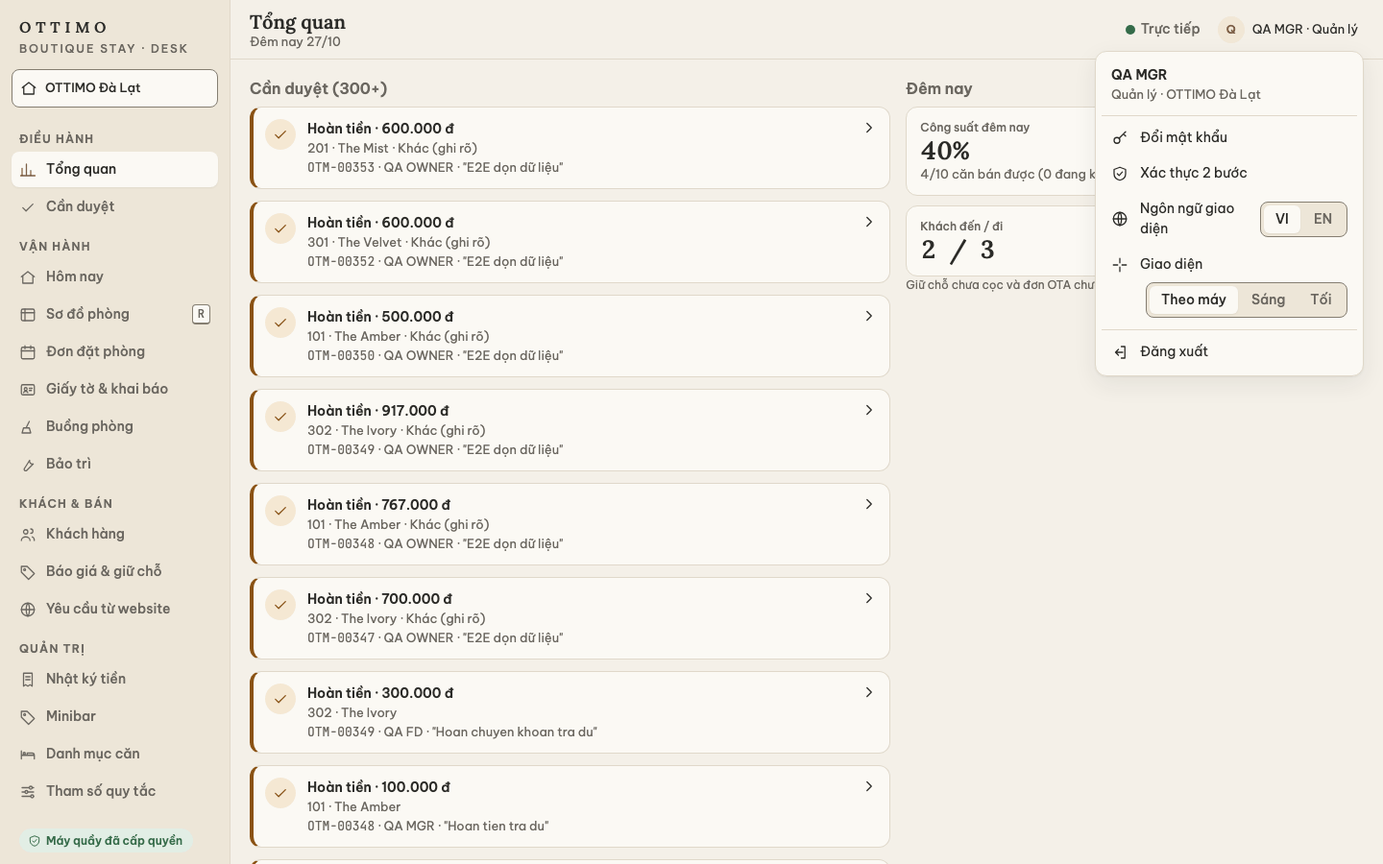
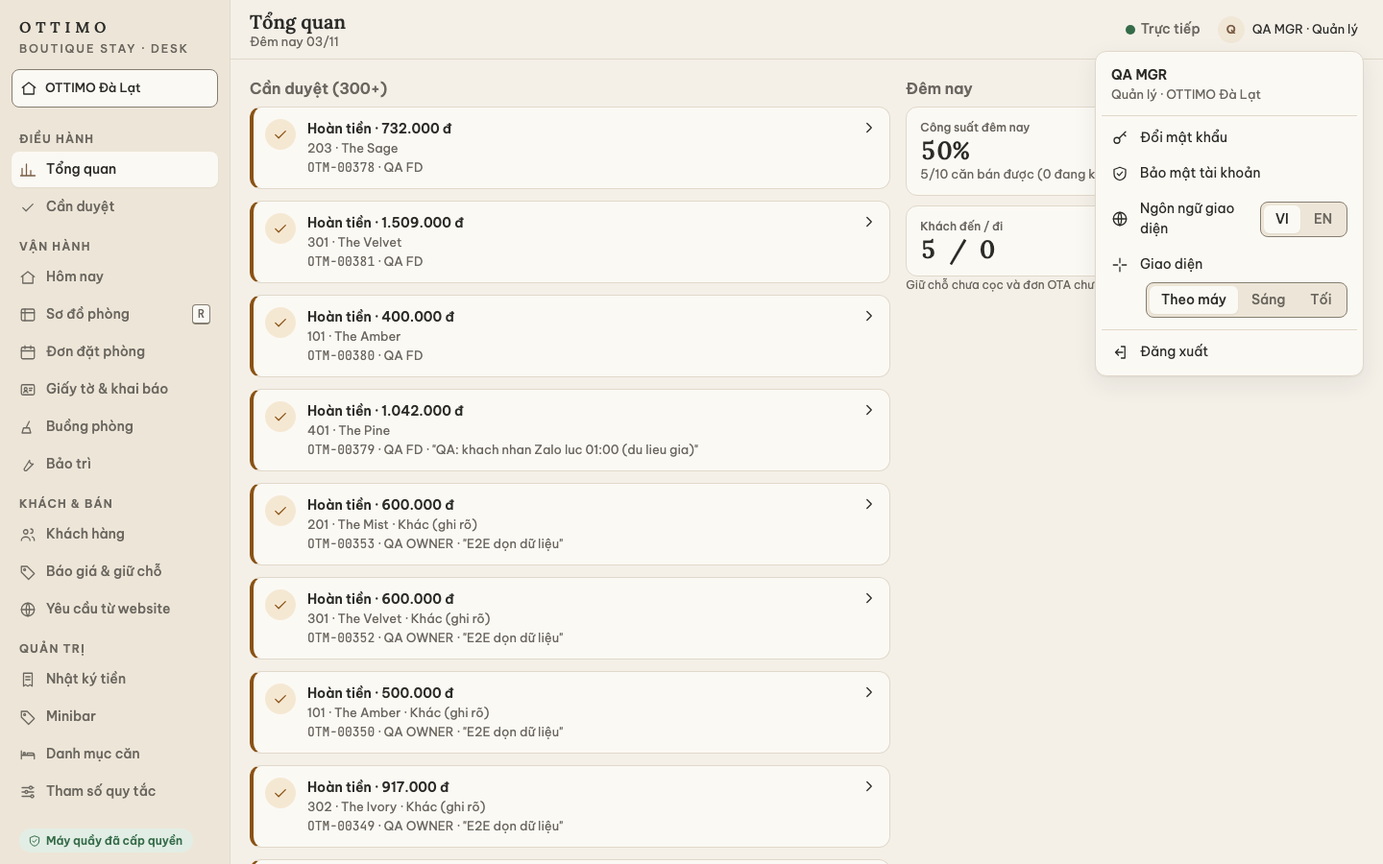
round-4: Kiểm thử – v1.0.3 staging smoke (Desk/PWA account security PASS, 6 manual shots, BUG-R4-023/024 P3)

diff --git a/rounds/round-04/qa/v1.0.3-staging-smoke.md b/rounds/round-04/qa/v1.0.3-staging-smoke.md
@@ -1,0 +1,202 @@
+# QA – Smoke staging v1.0.3 (email nhận thông báo bảo mật, giao diện Desk + PWA)
+
+- Tác giả: QA | Round 4 – đợt v1.0.3 – Bước: **Kiểm thử trên staging** | 03/11/2026, 22:57–23:08 giờ VN (15:57–16:08Z)
+- Căn cứ: giao việc ORC 03/11; `rounds/round-04/outputs/OPS/v1.0.3-staging-drill.md` (mục 7 D3: OPS chưa kiểm giao diện Desk); `rounds/round-04/qa/v1.0.3-test-report.md` (lượt 1 và lượt 2 trên stack thử); `rounds/round-04/outputs/BA/v1.0.3-manual-account-security.md` (ảnh); `rounds/round-04/qa/v1.0.2-staging-smoke.md` (khuôn).
+- Bản kiểm: staging `sha-da6d6f3dc22b` (= `main` `da6d6f3d`), theo biên bản OPS mục 0 và 6 (`current_tag=sha-da6d6f3dc22b`). Không có deploy staging nào sau đó: lượt CI `41665542022` (`b87ff8c5`) bị hủy, lượt `41668496287` (`5836c4c1`) đang chạy và chưa tới job `deploy staging`. QA đọc bằng `gh run list` / `gh run view`. QA **không duyệt** job deploy nào.
+- Staging: `EMAIL_PROVIDER=mock`, `MFA_ENFORCED=true` (OPS mục 2). Không có thư thật nào được gửi.
+- Cách chạy: Chromium của Playwright 1.63 (bản trong `product/node_modules`), khung Desk 1440×900, PWA 390×844, `vi-VN`, giao diện Sáng, giờ `Asia/Ho_Chi_Minh`. Desk mang cookie máy quầy seed `qa-desk-01`. Script ở scratchpad phiên (`qa-v103s/*.cjs`), ngoài repo. Lý do không dùng trình duyệt trong app cho phần có đăng nhập: mục 8, D-QA-1.
+- Tài khoản: `qa.mgr` (2FA), `qa.owner` (2FA), `qa.fd2`, `qa.fdl`, `qa.hk`, `qa.fd`. Mật khẩu seed và secret TOTP thử đọc từ tệp ngoài repo (`~/.ottimo/staging/`, quyền 600), không in ra chat, log hay repo. Mã TOTP tính tại máy, ghi bước đã dùng vào `<user>.laststep` để không dùng lại.
+- Địa chỉ dùng: chỉ `qa.*@example.test` (tên miền dành riêng, không nhận thư). Hai lần thử hộp thư chung dùng mật khẩu sai cố ý nên không ghi gì (mục 3).
+- Không chạm production, không SSH, không SQL.
+
+## 0. Kết luận: **ĐẠT** (6/6 mục; 1 phần không kiểm được trên staging)
+
+| # | Việc | Kết quả |
+|---|---|---|
+| 1 | Menu "Bảo mật tài khoản" / "Account security", khối email, banner nhắc | **Đạt.** Menu, tiêu đề trang, khối và chip đúng chữ VI và EN. Banner nhắc email hiện cho OWN và MGR chưa có email, nút dẫn tới `/security#security-email` và focus ô email. Banner **gộp** không dựng được trên staging (mục 1.3); đã đạt trên stack B của test report |
+| 2 | Đặt, đổi, xóa email; hộp S2; lỗi hộp thư chung; câu sau khi lưu | **Đạt** phần đặt, đổi, xóa, S2, sai dạng, trùng địa chỉ, 3 câu sau khi lưu. **Lỗi `info@` không kiểm được trên staging**: staging không đặt `EMAIL_FROM` nên luật hộp thư chung tắt, đúng thiết kế ARC (mục 2.3) |
+| 3 | OWN mở Người dùng & vai | **Đạt.** Cột Email; "Sửa email" ở mọi nhân viên và MGR; hàng của mình và hàng OWN khác không có nút. API: sửa OWN khác → 403, sửa chính mình → 422 |
+| 4 | HK tự đặt email, mở lại vẫn thấy (BUG-R4-018) | **Đạt.** `qa.hk` lưu được, đăng nhập lại ở trình duyệt mới vẫn thấy "Đã có" và địa chỉ |
+| 5 | PWA: thông báo `user.email_changed` (BUG-R4-021) | **Đạt.** `qa.fd` 7 dòng, `qa.fd2` 1, `qa.hk` 1: đều "Email nhận thông báo bảo mật của bạn đã thay đổi". 0 dòng mã thô. 0 ký tự `@` trong IndexedDB, `localStorage`, `sessionStorage` |
+| 6 | Ảnh sổ tay C0-06, G1-01, C1-07, C0-12, C0-13, C1-22 | **Đã chụp**, đã kiểm che, đã đưa vào `product/docs/manual/img/` (mục 7) |
+
+- Lỗi mới: **0 P0 · 0 P1 · 0 P2 · 2 P3** – **BUG-R4-023** (cột Email ngắt địa chỉ giữa chữ ở khung máy quầy 1440 px; nâng từ ghi nhận 1024 px của test report), **BUG-R4-024** (hộp S2 chỉ có mật khẩu vẫn báo "Mật khẩu hoặc mã chưa đúng… nhập mã mới"). Không ESC.
+- BUG-R4-018 và BUG-R4-021 (đã Closed ở lượt 2 trên stack thử) **đúng trên staging**. BUG-R4-020 (P3) vẫn tái hiện: hàng nhân viên chỉ có Sửa vai, Đặt lại mật khẩu, Khóa tài khoản.
+- D3 của OPS: phần Desk v1.0.3 đã kiểm bằng giao diện ở lượt này (mục 1–4). Phần "Desk **v1.0.2** sau khi lùi" không kiểm lại, vì staging đang ở v1.0.3 và lượt này không lùi bản. QC quyết có cần như OPS đề xuất.
+- Đề nghị QC: smoke staging v1.0.3 phần giao diện **xong**. Còn lỗi `EMAIL_SHARED_MAILBOX` trên máy chủ thật, chạy được ở smoke production (`EMAIL_FROM=info@ottimo.vn`) bằng cách thử với mật khẩu sai như mục 2.3.
+
+## 1. Menu, khối email, banner nhắc
+
+### 1.1 Menu và trang
+
+| Kiểm | Kết quả |
+|---|---|
+| Menu tài khoản (`qa.mgr`, VI) | "Đổi mật khẩu · **Bảo mật tài khoản** · Ngôn ngữ giao diện · Giao diện · Đăng xuất". Không còn "Xác thực 2 bước" ở menu |
+| Menu (EN) | "Change password · **Account security** · Interface language · Appearance · Sign out" |
+| Trang `/security` | Tiêu đề trang "Bảo mật tài khoản" / "Account security". Hai khối: **Xác thực 2 bước** ("Đang bật từ 26/10/2026 15:17", "Bắt buộc với vai chủ đầu tư và quản lý.", "Còn 10 mã khôi phục", "Tạo bộ mã mới") và **Email nhận thông báo bảo mật** |
+| Khối email khi chưa có (MGR) | Chip "Chưa có"; câu dẫn `secmail.lead`; khung cảnh báo `secmail.missing` ("Tài khoản chủ đầu tư và quản lý cần có email…"); ô "Email *"; câu mục đích + "Không dùng hộp thư chung của cơ sở, như info@."; nút "Thêm email" |
+| Khối email khi chưa có (HK, vai không bắt buộc) | Chip "Chưa có"; "Chưa có email."; **không** có khung cảnh báo – đúng, chỉ OWN/MGR bị nhắc |
+| Khối email khi đã có | Chip "Đã có"; "ĐỊA CHỈ ĐANG DÙNG" + địa chỉ chữ đơn cách; nút "Đổi email", "Xóa email" |
+| EN, đã có | "Notification email · Set · … · CURRENT ADDRESS · Change email · Remove email". Chuỗi khớp `gen_strings.py` |
+
+### 1.2 Banner nhắc email
+
+| Tài khoản | `getMe` | Banner trên Tổng quan |
+|---|---|---|
+| `qa.mgr` (2FA, chưa email) | `mfaRequiredButMissing=false`, `securityEmailMissing=true`, `email: null` | **Một** banner: "Tài khoản của bạn chưa có email nhận thông báo bảo mật. Thêm email để được báo khi có thay đổi quan trọng." + "Thêm email", "Để sau" |
+| `qa.owner` (2FA, chưa email) | như trên | Cùng banner. Bấm "Thêm email" → `/security#security-email`, con trỏ ở ô email (`INPUT type=email`) |
+| `qa.mgr`, `qa.owner` sau khi lưu email | `securityEmailMissing=false` | Không còn banner (Tổng quan và `/security`) |
+| `qa.fdl`, `qa.fd2`, `qa.hk` | `securityEmailMissing=false` dù chưa có email | Không banner – đúng (không phải OWN/MGR) |
+
+### 1.3 Banner gộp (thiếu cả 2FA và email)
+
+- **Không dựng được trên staging.** Staging chạy `MFA_ENFORCED=true`: OWN/MGR chưa bật 2FA chỉ có phiên giới hạn và bị đưa tới bật 2FA trước, nên không bao giờ thấy Tổng quan với `mfaRequiredButMissing=true`. Các vai còn lại có `mfaRequiredButMissing=false`. Đúng ghi nhận của test report mục 7.
+- Muốn thấy trên staging phải tạo một OWN/MGR mới chưa bật 2FA, và vẫn bị chặn như trên. QA không tạo tài khoản.
+- Đã đạt trên stack B (`MFA_ENFORCED=false`) ở test report mục 7 và 12.6.
+
+## 2. Đặt, đổi, xóa email (Desk, giao diện)
+
+### 2.1 `qa.mgr` – Quản lý có 2FA (4 lần ghi)
+
+| Bước | Desk hiện | KQ |
+|---|---|---|
+| Sai dạng `qa.mgr@@example` → Thêm email | "Email chưa đúng dạng, ví dụ ten@example.com." dưới ô. Không mở hộp S2, không gửi lệnh | Đạt |
+| Đặt lần đầu `qa.mgr@example.test` | Hộp S2 "Lưu email nhận thông báo bảo mật": "ĐỊA CHỈ MỚI" + địa chỉ, "OTTIMO sẽ gửi thông báo tới địa chỉ mới và tới địa chỉ cũ, nếu có.", "Thao tác này cần mật khẩu đăng nhập và mã 6 số…", ô **Mật khẩu đăng nhập**, ô **Mã trong ứng dụng xác thực (6 số)**, "Mất điện thoại? Dùng mã khôi phục", Hủy / Lưu email | Đạt |
+| Sau khi lưu (lần đầu) | "Đã lưu. Thông báo đã gửi tới địa chỉ này. Sau 15 phút chưa thấy thư, hãy xem mục Spam hoặc kiểm tra lại địa chỉ." (`secmail.saved_first`); chip "Đã có" | Đạt |
+| Đổi sang cùng địa chỉ viết hoa | "Địa chỉ này đã được lưu. Không có gì thay đổi." Không mở S2, không gửi lệnh | Đạt |
+| Đổi sang `qa.mgr.b@example.test`, mở S2 rồi **Hủy** (ảnh C0-13) | Hộp đóng, không lệnh nào gửi, khối giữ địa chỉ cũ và form đang sửa | Đạt |
+| Đổi thật | "Đã lưu. Thông báo đã gửi tới địa chỉ mới và địa chỉ cũ. Sau 15 phút…" (`secmail.saved`) | Đạt |
+| Xóa email | Hộp S2 "Xóa email nhận thông báo bảo mật": "Sau khi xóa, bạn không nhận thông báo bảo mật qua email nữa. OTTIMO sẽ gửi một thông báo tới địa chỉ cũ." (không có dòng địa chỉ mới), nút "Xóa email" | Đạt |
+| Sau khi xóa | "Đã xóa email. Thông báo đã gửi tới địa chỉ cũ."; chip "Chưa có"; khung cảnh báo OWN/MGR hiện lại | Đạt |
+| Đặt lại `qa.mgr.c@example.test`, tải lại trang | Vẫn "Đã có", `getMe.email` = địa chỉ đó, `securityEmailMissing=false` | Đạt |
+
+- Mạng: 4 × `PUT /v1/me/email` → **200**. Không lệnh ghi nào khác. 0 lỗi JS; console chỉ có 401 `/v1/me` trước đăng nhập (đúng thiết kế) và font `data:` (BUG-R4-017).
+
+### 2.2 `qa.owner`, `qa.hk`
+
+- `qa.owner` thêm `qa.owner@example.test` qua banner: S2 có mật khẩu và mã; sau khi lưu ra `secmail.saved_first`. `PUT /v1/me/email` 200.
+- `qa.hk` (Buồng phòng, chưa 2FA) – mục 4.
+
+### 2.3 Hộp thư chung (`info@`)
+
+- Cách thử (không ghi gì): `qa.fd2` (Lễ tân, chưa 2FA) nhập `info@example.test`, rồi `info@ottimo.vn`. Ở hộp S2 nhập **mật khẩu sai cố ý**. Máy chủ kiểm hộp thư chung **trước** S2, nên nếu luật bật thì phải ra 422 `EMAIL_SHARED_MAILBOX`; nếu luật tắt thì ra 401 và không ghi gì.
+- Kết quả: cả hai địa chỉ → **401** `REAUTH_FAILED`; hộp S2 hiện "Mật khẩu hoặc mã chưa đúng…"; địa chỉ đang lưu không đổi.
+- Kết luận: staging **không đặt `EMAIL_FROM`**, nên luật hộp thư chung tắt. Đúng ARC v1.0.3-tech-plan dòng 113 ("Không cấu hình `EMAIL_FROM` (staging mock) thì bỏ qua") và BE mục cấu hình. Câu lỗi `field.EMAIL_SHARED_MAILBOX` đã đạt trên stack thử (test report 4.1, 4.2).
+- Việc còn lại: kiểm ở smoke production (`EMAIL_FROM=info@ottimo.vn`) bằng đúng cách trên: nhập `info@ottimo.vn`, mật khẩu sai, mong đợi câu "Đây là hộp thư chung của cơ sở. Thông báo bảo mật cần tới một email riêng." dưới ô email và không ghi gì.
+- Phụ: `qa.fd2` có thêm 2 lần sai mật khẩu S2 trong bộ đếm (do ca này).
+- Phát hiện: với tài khoản chỉ có mật khẩu, câu lỗi vẫn nói "…hoặc mã… nhập mã mới" → **BUG-R4-024** (P3).
+
+## 3. OWN – Người dùng & vai
+
+| Kiểm | Kết quả |
+|---|---|
+| Cột bảng | NGƯỜI DÙNG · VAI · **EMAIL** · TRẠNG THÁI · ĐĂNG NHẬP GẦN NHẤT · THAO TÁC (31 hàng) |
+| Hàng của mình (`qa.owner` · Bạn) | Địa chỉ + liên kết "Đổi email của bạn ở Bảo mật tài khoản." **Không** có nút "Sửa email" |
+| Hàng OWN khác (`inv.owner`) | "Chưa có" + "Mỗi chủ đầu tư tự đặt email của mình." **Không** có nút "Sửa email" |
+| Hàng MGR và nhân viên | Địa chỉ hoặc "Chưa có", nút "Sửa email" ở cả 29 hàng còn lại |
+| "Sửa email" `qa.fd2` (chưa có) | Hộp "Email nhận thông báo bảo mật – QA FD2": ô Email, câu mục đích, khung "OTTIMO sẽ gửi thông báo tới địa chỉ mới, địa chỉ cũ (nếu có) và các chủ đầu tư.", Hủy / Lưu email (chưa có "Xóa email" khi trống) |
+| Lưu `qa.fd2@example.test` | Hộp chuyển sang S2 của OWN (ĐỊA CHỈ MỚI, mật khẩu + mã). Sau khi lưu: thông báo "Đã lưu email của QA FD2. Thông báo đã gửi tới địa chỉ này và các chủ đầu tư." `PATCH /v1/users/{id}` 200. Hàng `qa.fd2` hiện địa chỉ |
+| Mở lại "Sửa email" `qa.fd2` (ảnh C1-22) | Ô có sẵn địa chỉ; thêm nút "Xóa email". Hủy, không lưu |
+| `qa.fd2` đăng nhập Desk | `/security` hiện "Đã có", đúng địa chỉ OWN vừa đặt |
+| API `PATCH /v1/users/{inv.owner}` có `email` (S2 giả) | **403 `FORBIDDEN_ACTION`**, trước S2 (không tốn yếu tố) |
+| API `PATCH /v1/users/{qa.owner}` (chính mình) có `email` | **422** `NOT_ALLOWED_FOR_SELF` (`field: email`) |
+| Thân lỗi 403/422 | Không có ký tự `@` |
+
+- Ở khung 1440 px, địa chỉ trong cột Email bị ngắt giữa chữ ("qa.owner@example / .test", "qa.fd2@example.t / est") → **BUG-R4-023** (P3).
+- BUG-R4-020 vẫn tái hiện như test report (không có "Đặt lại xác thực 2 bước").
+
+## 4. Vai Buồng phòng tự đặt email (BUG-R4-018)
+
+| Bước | Kết quả |
+|---|---|
+| `qa.hk` đăng nhập Desk | Vào `/housekeeping`. `getMe` có khóa `email` (giá trị `null`) |
+| Bảo mật tài khoản → nhập `qa.hk@example.test` → Thêm email | S2 chỉ có **Mật khẩu đăng nhập** ("Thao tác này cần mật khẩu đăng nhập của bạn."). Lưu → `secmail.saved_first`, chip "Đã có", địa chỉ hiện ngay |
+| Đóng trình duyệt; mở trình duyệt mới, đăng nhập lại | `/security` hiện "Đã có", "ĐỊA CHỈ ĐANG DÙNG qa.hk@example.test", "Đổi email", "Xóa email". `getMe.email` = địa chỉ đó |
+
+- Mạng: `POST /v1/auth/login` 200, `PUT /v1/me/email` 200, `POST /v1/auth/login` 200.
+- → BUG-R4-018 đúng trên staging. Không đổi trạng thái (đã Closed).
+
+## 5. PWA nhân viên – thông báo `user.email_changed` (BUG-R4-021)
+
+`staff.staging.ottimo.vn`, 390×844, đăng nhập bằng form, mở `#/notifications`.
+
+| Tài khoản | Dòng email | Dòng mã thô (`user.*`, `mfa.*`) | `@` trên trang | IndexedDB / storage |
+|---|---|---|---|---|
+| `qa.fd` (7 lần đổi trong diễn tập OPS) | **7** × "Email nhận thông báo bảo mật của bạn đã thay đổi" | **0** | 0 | 4 bản ghi, **0** `@`; `localStorage`/`sessionStorage` 0 `@` |
+| `qa.fd2` (OWN đổi hộ ở mục 3) | 1 × câu trên (03/11 23:03) | 0 | 0 | 4 bản ghi, 0 `@` |
+| `qa.hk` (tự đổi ở mục 4) | 1 × câu trên (03/11 23:05) | 0 | 0 | 4 bản ghi, 0 `@` |
+
+- Phần tử `.mono` trên trang (26–27) chỉ là mã đơn `OTM-…` của các thông báo đơn, không phải mã thông báo.
+- Câu "…của **một tài khoản khác** đã thay đổi" (người nhận là OWN) không kiểm được trên PWA staging: OWN có 2FA, PWA không cho vai bắt buộc 2FA đăng nhập (`MFA_REQUIRED`). Đã đạt trên stack thử (`qa.owner2`, test report 12.4).
+- → BUG-R4-021 đúng trên staging. Không đổi trạng thái (đã Closed).
+
+## 6. Mạng và console
+
+- Lệnh ghi trong cả lượt: `PUT /v1/me/email` 200 × 6 (`qa.mgr` 4, `qa.owner` 1, `qa.hk` 1); `PUT /v1/me/email` 401 × 2 (`qa.fd2`, mật khẩu sai cố ý); `PATCH /v1/users/{qa.fd2}` 200 × 1; `PATCH` 403 × 1 và 422 × 1 (ca âm, không ghi); đăng nhập. Không lệnh ghi nào khác.
+- 0 phản hồi 5xx thấy từ trình duyệt. 0 lỗi JS. Console chỉ có 401 `/v1/me` trước đăng nhập và font `data:` (BUG-R4-017, đã biết).
+- `email_changes` của `ops-check`: lượt này thêm tối đa 4 lần/người (`qa.mgr`), dưới ngưỡng 5. Không làm `FAIL` mới. `FAIL` hiện có là của `qa.fd` (OPS S1/S8, hết khoảng 22:41 ngày 04/11 giờ VN).
+- QA không đọc log máy chủ ở lượt này (không SSH). OPS đọc log ở biên bản diễn tập.
+
+## 7. Ảnh cho sổ tay
+
+| Mã | Màn hình | Vai | Tệp trong repo |
+|---|---|---|---|
+| C0-06 | Menu tài khoản mở trên Tổng quan: Đổi mật khẩu, **Bảo mật tài khoản**, Ngôn ngữ giao diện, Giao diện, Đăng xuất | `qa.mgr` | `product/docs/manual/img/C0-06.png` (chụp lại) |
+| G1-01 | Bảo mật tài khoản: khối Xác thực 2 bước "Đang bật từ 26/10/2026 15:17", "Còn 10 mã khôi phục", "Tạo bộ mã mới"; khối email bên dưới | `qa.mgr` | `product/docs/manual/img/G1-01.png` (chụp lại) |
+| C1-07 | Người dùng & vai: cột Email, Thao tác; 6 hàng đầu (QA OWNER · Bạn, QA MGR, QA FDL, QA FD, QA FD2, QA HK) | `qa.owner` | `product/docs/manual/img/C1-07.png` (chụp lại) |
+| C0-12 | Khối Email nhận thông báo bảo mật: chip **Đã có**, **Địa chỉ đang dùng**, **Đổi email**, **Xóa email** | `qa.mgr` | `product/docs/manual/img/C0-12.png` (mới) |
+| C0-13 | Hộp **Lưu email nhận thông báo bảo mật**: Địa chỉ mới, câu báo, ô mật khẩu và ô mã **để trống** | `qa.mgr` | `product/docs/manual/img/C0-13.png` (mới) |
+| C1-22 | Hộp **Email nhận thông báo bảo mật – QA FD2**: ô Email có địa chỉ, câu "OTTIMO sẽ gửi thông báo tới…", **Xóa email**, **Lưu email** | `qa.owner` | `product/docs/manual/img/C1-22.png` (mới) |
+
+Kiểm che (QA, từng ảnh):
+- Ảnh trang của Playwright: không thanh địa chỉ, không tab, không thông báo hệ điều hành. 1440×900, Sáng, tiếng Việt.
+- Tên và tên đăng nhập trên ảnh đều là tài khoản thử (`QA …`, `qa.*`). C1-07 và C1-22 chỉ lộ 6–7 hàng đầu của bảng, đều `qa.*`. Các hàng do người khác tạo trên staging (`inv.owner`, `letan1`, `buongphong1`, có tên hiển thị có thể là người thật) **nằm ngoài khung**, QA đã kiểm từng ảnh.
+- Email trên ảnh đều `qa.*@example.test`. Không có mã QR, khóa nhập tay, mã khôi phục (G1-01 chỉ hiện **số** mã còn lại), mật khẩu, mã 6 số, số tài khoản, số giấy tờ.
+- C0-06: nền Tổng quan hiện các yêu cầu hoàn của đơn thử QA (OTM-00378…00381, 00349…00353) với tên "QA FD", "QA OWNER" và ghi chú "(du lieu gia)", "E2E dọn dữ liệu". Không có tên khách. Không cần hộp che.
+- Không ảnh nào cần hộp che.
+- Lệch so với hướng dẫn chụp (gửi BA/UXD, không tự sửa sổ tay):
+  - Email giả dạng `qa.…@example.test`, không phải `name@example.com` như `screenshot-list.md` gợi ý (ORC yêu cầu dùng `qa.*@example.test`). Cùng là tên miền dành riêng.
+  - C0-12 và G1-01 cùng một khung trang (trang chỉ có hai khối, vừa một màn). Bản cắt riêng khối email: scratchpad `qa-v103s/img/C0-12-crop.png`, nếu UXD muốn.
+  - C1-07, C1-22: địa chỉ ngắt giữa chữ (BUG-R4-023). Khi FE sửa thì nên chụp lại hai ảnh này.
+
+## 8. Khác cách làm được giao
+
+| # | Điểm | Thực tế | Ảnh hưởng |
+|---|---|---|---|
+| D-QA-1 | Dùng trình duyệt trong app (`mcp__Claude_Browser__*`) cho Desk và PWA | Đã mở Desk và PWA staging trong trình duyệt trong app: trang đăng nhập của cả hai mở được. Không đăng nhập được ở đó mà vẫn giữ mật khẩu ngoài chat: dán từ bộ nhớ tạm không chạy, `navigator.clipboard` bị từ chối, và CSP `connect-src 'self'` + COOP `same-origin` của Desk chặn mọi cách đưa giá trị từ tệp cục bộ vào trang. Cách duy nhất còn lại là gõ mật khẩu qua công cụ, tức mật khẩu nằm trong nội dung phiên. QA chuyển sang Chromium của Playwright, đúng cách smoke v1.0.2 đã làm (mật khẩu và TOTP đọc từ tệp, không in) | Không đổi kết quả. Mọi bước vẫn là thao tác giao diện thật trên staging. Bộ nhớ tạm đã được xóa sau lần thử dán |
+| D-QA-2 | Lỗi `info@` | Thử bằng mật khẩu sai để không ghi gì; luật tắt trên staging (mục 2.3) | Phần này chuyển sang smoke production |
+
+## 9. Chưa kiểm và lý do
+
+| Việc | Lý do | Khi nào chạy được |
+|---|---|---|
+| Câu lỗi `EMAIL_SHARED_MAILBOX` trên máy chủ thật | Staging không đặt `EMAIL_FROM` | Smoke production, cách ở mục 2.3 |
+| Banner gộp | `MFA_ENFORCED=true` trên staging (mục 1.3) | Đã đạt ở stack B |
+| Câu PWA "…của một tài khoản khác…" | OWN có 2FA không vào được PWA | Đã đạt ở stack thử |
+| Desk v1.0.2 sau khi lùi (D3 của OPS, phần `qa.owner`) | Staging đang ở v1.0.3; lượt này không lùi bản | Nếu QC cần: OPS lùi, QA mở danh sách thông báo, OPS lên lại (~2 phút mỗi chiều) |
+| Thư thật | `EMAIL_PROVIDER=mock` | Production (B-thư của runbook) |
+
+## 10. Dữ liệu để lại trên staging
+
+| Tài khoản | Email sau lượt | Ghi chú |
+|---|---|---|
+| `qa.owner` | `qa.owner@example.test` | Giữ, để ảnh khác của OWN không có banner nhắc |
+| `qa.mgr` | `qa.mgr.c@example.test` | Giữ, như trên |
+| `qa.fd2` | `qa.fd2@example.test` (OWN đặt) | 2 lần sai mật khẩu S2 trong bộ đếm (mục 2.3) |
+| `qa.hk` | `qa.hk@example.test` | – |
+| `qa.fd` | không đổi (`…v103d7@example.test` của OPS) | – |
+
+- `user_email_change` thêm 7 dòng (6 tự đổi + 1 OWN đổi hộ). Outbox `email_changed` đi qua `mock`.
+- Không đơn, không khoản thu, không tài khoản mới.
+
+## 11. Lỗi mới
+
+Chi tiết trong `rounds/round-04/qa/bug-list.md`.
+
+| ID | Mức | Tóm tắt | Vai |
+|---|---|---|---|
+| BUG-R4-023 | P3 | Người dùng & vai ở 1440 px: địa chỉ email trong cột Email bị ngắt giữa chữ | FE-A + UXD |
+| BUG-R4-024 | P3 | Hộp S2 chỉ có ô mật khẩu vẫn báo "Mật khẩu hoặc mã chưa đúng. Kiểm tra lại rồi nhập mã mới." | UXD (chữ) + FE-A |
+
+Dòng đề xuất cho `01-decisions/decision-log.md` (ORC ghi khi commit):
+`| 2026-11-03 | 4 | QA – smoke staging v1.0.3 giao diện (sha-da6d6f3dc22b, Desk 1440 + PWA 390, Playwright): ĐẠT. Menu/trang "Bảo mật tài khoản" VI/EN, khối email, banner nhắc OWN/MGR; đặt/đổi/xóa qua S2 (mật khẩu + mã, hoặc chỉ mật khẩu), 3 câu sau khi lưu, sai dạng, trùng địa chỉ; OWN: cột Email, Sửa email nhân viên, không nút ở hàng mình và OWN khác, API 403/422; HK tự đặt và đăng nhập lại vẫn thấy (BUG-R4-018); PWA không mã thô, 0 @ trong IndexedDB (BUG-R4-021). Lỗi info@ không kiểm được (staging không đặt EMAIL_FROM) → smoke production. Banner gộp không dựng được (MFA_ENFORCED=true). Ảnh C0-06, G1-01, C1-07, C0-12, C0-13, C1-22 vào product/docs/manual/img. Mới BUG-R4-023, 024 (P3). | QA | Quyền QA (kết luận kiểm thử) |`

diff --git a/rounds/round-04/qa/bug-list.md b/rounds/round-04/qa/bug-list.md
@@ -21,15 +21,17 @@
 
 - **v1.0.3 – PR #31 lượt 2** (03/11 19:55–20:50, `origin/v1.0.3-email` @ `b00972ff`; PG 17 tạm `qa-v103-pg` dựng lại, đã dọn): BUG-R4-018, 019, 021, 022 **đã sửa – đã xác nhận** (Closed). Vitest `--maxWorkers=3`: api 3777/0 lỗi, admin-web 756, mobile 132, notification 89, api-client 37. Hồi quy S2, outbox, bỏ trùng, quay lui, dọn 7 ngày, IndexedDB, banner gộp, 2FA cũ: đạt. `User.email` không tới vai không phải OWN. Không lỗi mới. Chi tiết: `rounds/round-04/qa/v1.0.3-test-report.md` mục 12.
 
-## 1. Tổng hợp (sau lượt 3 + PR #21 + PR #22 + PR #24 lượt 2 + smoke staging v1.0.1 + PR #22 lượt 2 + PR #22 lượt 3 + smoke staging v1.0.2 + đóng lỗi trên `main` `e5fffe05` + v1.0.3 PR #31 @ `fb6a281c` + lượt 2 @ `b00972ff`)
+- **v1.0.3 – smoke staging giao diện** (03/11 22:57–23:08 giờ VN, staging `sha-da6d6f3dc22b` = `main` `da6d6f3d`, `EMAIL_PROVIDER=mock`, `MFA_ENFORCED=true`; Desk 1440 + PWA 390 bằng Chromium Playwright): **ĐẠT**. Menu và trang "Bảo mật tài khoản" VI/EN, khối email, banner nhắc OWN/MGR; đặt/đổi/xóa qua S2; OWN sửa email nhân viên, không sửa được OWN khác hay chính mình; BUG-R4-018 và BUG-R4-021 đúng trên staging. Lỗi `info@` không kiểm được (staging không đặt `EMAIL_FROM`). Mới **BUG-R4-023**, **BUG-R4-024** (P3). Ảnh C0-06, G1-01, C1-07, C0-12, C0-13, C1-22. Chi tiết: `rounds/round-04/qa/v1.0.3-staging-smoke.md`.
+
+## 1. Tổng hợp (sau lượt 3 + PR #21 + PR #22 + PR #24 lượt 2 + smoke staging v1.0.1 + PR #22 lượt 2 + PR #22 lượt 3 + smoke staging v1.0.2 + đóng lỗi trên `main` `e5fffe05` + v1.0.3 PR #31 @ `fb6a281c` + lượt 2 @ `b00972ff` + smoke staging v1.0.3)
 
 | Mức | Số lỗi | Open | Fixed (chờ QA) | Closed (đã xác nhận) |
 |---|---|---|---|---|
 | P0 | 0 | 0 | 0 | 0 |
 | P1 | 0 | 0 | 0 | 0 |
 | P2 | 9 | 1 (BUG-R4-011) | 0 | 8 (BUG-R4-001, 002, 003, 004, 013, 014, **018**, **022** – 014 đóng sau smoke staging v1.0.2 `sha-e5fffe05ed55`; 013 đóng 03/11 trên `main` `e5fffe05`; 018, 022 đóng 03/11 @ `b00972ff`) |
-| P3 | 13 | 5 (BUG-R4-010 – mở lại, BUG-R4-012, BUG-R4-015, BUG-R4-017, **020**) | 0 | 8 (BUG-R4-005, 006, 007, 008, 009, 016, **019**, **021** – 009 đã kiểm lại trên staging `sha-755cad1642ca`; 016 đóng 03/11 trên `main` `e5fffe05`; 019, 021 đóng 03/11 @ `b00972ff`) |
-| **Tổng** | **22** | **6** | **0** | **16** |
+| P3 | 15 | 7 (BUG-R4-010 – mở lại, BUG-R4-012, BUG-R4-015, BUG-R4-017, **020**, **023**, **024**) | 0 | 8 (BUG-R4-005, 006, 007, 008, 009, 016, **019**, **021** – 009 đã kiểm lại trên staging `sha-755cad1642ca`; 016 đóng 03/11 trên `main` `e5fffe05`; 019, 021 đóng 03/11 @ `b00972ff`) |
+| **Tổng** | **24** | **8** | **0** | **16** |
 
 Lỗi R3 liên quan: **BUG-R3-050** (`rounds/round-03/qa/bug-list.md`, đích v1.0.1) – lượt 3 xác nhận đã sửa phần ngôn ngữ gửi tin, SĐT/WhatsApp vào hồ sơ, mở lại báo giá không về tiếng Việt (ca EN hồi quy đạt); phần còn lại tách thành BUG-R4-011 (kênh Zalo) và BUG-R4-012 (quốc tịch). ORC cập nhật trạng thái ở tệp R3.
 
@@ -468,6 +470,28 @@ Lỗi R3 liên quan: **BUG-R3-050** (`rounds/round-03/qa/bug-list.md`, đích v1
 - **Vai:** ARC + BE-A.
 - **Trạng thái:** **Closed – đã sửa, đã xác nhận** (lượt 2, `b00972ff`, cùng bản sửa với 018). 5 vai nhận `otpauthUri`, 10 `recoveryCodes` khi xác nhận và khi tạo bộ mới. Desk `qa.ctv2` thấy mã QR, khóa nhập tay, 10 mã khôi phục, "Tạo bộ mã mới" ra 10 mã. Báo cáo mục 12.2. Lịch sử: Open @ `fb6a281c`.
 
+### BUG-R4-023 – Người dùng & vai ở khung máy quầy 1440 px: địa chỉ email trong cột Email bị ngắt giữa chữ
+
+- **Mức:** P3. Chỉ là hiển thị, không sai dữ liệu. Nhưng người đọc dễ chép sai địa chỉ, và ảnh sổ tay C1-07, C1-22 mang lỗi này.
+- **Môi trường:** staging `sha-da6d6f3dc22b`, Desk Chromium 1440×900 (khung máy quầy chuẩn của sổ tay), `qa.owner`, `/settings/users`.
+- **Các bước:** OWN mở **Người dùng & vai** khi vài người dùng đã có email (ví dụ `qa.owner@example.test`, `qa.fd2@example.test`).
+- **Thực tế:** cột Email hẹp; địa chỉ chữ đơn cách xuống dòng ở vị trí bất kỳ: "qa.owner@example / .test", "qa.fd2@example.t / est", "qa.fd.v103d7@exa / mple.test". Test report v1.0.3 mục 9 đã ghi ở 1024 px (ghi nhận); lượt này thấy ở cả 1440 px nên nâng thành lỗi.
+- **Mong đợi:** địa chỉ ở trên một dòng, hoặc chỉ ngắt ngay sau `@`. Gợi ý: cột Email rộng hơn (bớt chỗ của cột Thao tác), hoặc chèn điểm ngắt sau `@` (`<wbr>`) với `overflow-wrap: normal`, hoặc rút gọn bằng dấu "…" kèm `title`.
+- **Bằng chứng:** `product/docs/manual/img/C1-07.png`, `C1-22.png`; `rounds/round-04/qa/v1.0.3-staging-smoke.md` mục 3.
+- **Vai:** FE-A (+ UXD chốt cách hiển thị). Sau khi sửa, QA chụp lại C1-07, C1-22.
+- **Trạng thái:** Open.
+
+### BUG-R4-024 – Hộp S2 chỉ có ô mật khẩu vẫn báo "Mật khẩu hoặc mã chưa đúng. Kiểm tra lại rồi nhập mã mới."
+
+- **Mức:** P3. Chữ gây hiểu lầm; không sai quyền, không ghi gì.
+- **Môi trường:** staging `sha-da6d6f3dc22b`, Desk 1440×900, `qa.fd2` (Lễ tân, chưa bật 2 bước), Bảo mật tài khoản.
+- **Các bước:** Đổi email → Lưu email → hộp S2 (chỉ có ô **Mật khẩu đăng nhập**, câu "Thao tác này cần mật khẩu đăng nhập của bạn.") → nhập sai mật khẩu → Lưu email.
+- **Thực tế:** 401 `REAUTH_FAILED`; hộp hiện `reauth.s2_failed` "Mật khẩu hoặc mã chưa đúng. Kiểm tra lại rồi nhập mã mới." Người dùng không có mã nào để nhập. Từ v1.0.3 hộp này tới mọi vai không bật 2 bước (lễ tân, buồng phòng, CTV…) khi họ tự đặt email, nên câu này gặp thường hơn trước.
+- **Mong đợi:** khi hộp không có ô mã, câu chỉ nói về mật khẩu, ví dụ "Mật khẩu chưa đúng. Kiểm tra lại rồi thử lại." (chuỗi mới, ví dụ `reauth.s2_failed_password`, VI/EN).
+- **Bằng chứng:** `rounds/round-04/qa/v1.0.3-staging-smoke.md` mục 2.3 (2 lần thử, `PUT /v1/me/email` 401).
+- **Vai:** UXD (chữ) + FE-A (chọn chuỗi theo hộp có ô mã hay không).
+- **Trạng thái:** Open.
+
 ## 3. Ghi nhận (không phải lỗi)
 
 - Trong ~1 giây đầu khi một IP dồn lượt, 30 lượt hợp lệ đầu tiên của IP đó có thể làm khách khác nhận 503 (bộ đếm chung 10/giây). Sau lượt 30 thì không còn. Đây là rủi ro PE-RR4 SEC đã chấp nhận (báo cáo 4.1).
@@ -483,4 +507,5 @@ Lỗi R3 liên quan: **BUG-R3-050** (`rounds/round-03/qa/bug-list.md`, đích v1
 - *PR #22:* bộ Vitest api trên máy QA: 3334 đạt, 24 bỏ qua. BE báo 19 bỏ qua; 5 ca chênh là ca bootstrap cần `BOOTSTRAP_DATABASE_URL`, QA không đặt biến này.
 - *v1.0.3 PR #31:* sau khi tua đồng hồ +8 ngày rồi reset, mã TOTP hiện tại bị từ chối vì `mfa_last_used_step` còn ở ngày +8. Đây là chặn dùng lại đúng thiết kế, chỉ gặp với MutableClock. Gợi ý: `/__test__/clock` `op: reset` nên kèm cách hạ cột này cho E2E.
 - *v1.0.3 PR #31:* dòng outbox `email_changed` bị job dọn 7 ngày xóa `old_email` trước khi gửi thì chỉ gửi `self` + `owner`. Đúng thiết kế, chỉ xảy ra khi worker dừng quá 7 ngày.
-- *v1.0.3 PR #31:* trang Người dùng & vai ở 1024 px ngắt địa chỉ email giữa chữ. Gợi ý cho UXD/FE.
+- *v1.0.3 PR #31:* trang Người dùng & vai ở 1024 px ngắt địa chỉ email giữa chữ. Gợi ý cho UXD/FE. *Smoke staging v1.0.3:* thấy cả ở 1440 px → nâng thành BUG-R4-023.
+- *Smoke staging v1.0.3:* staging không đặt `EMAIL_FROM`, nên luật `EMAIL_SHARED_MAILBOX` tắt (đúng ARC). Lỗi `info@` chỉ kiểm được ở production: nhập `info@ottimo.vn` với mật khẩu S2 sai cố ý (máy chủ kiểm hộp thư chung trước S2, nên không ghi gì dù luật bật hay tắt).

diff --git a/rounds/round-04/outputs/QA/report.md b/rounds/round-04/outputs/QA/report.md
@@ -58,3 +58,33 @@ Chưa chạy trọn trả phòng B18 trên image này. v1.0.1 không đổi mã 
 ## Việc chưa xong
 - Trả phòng OTM-00377 ngày 02/11.
 - `smoke-prod` trên production sau Release (ĐK6).
+
+---
+
+# QA – v1.0.3 smoke staging giao diện (email nhận thông báo bảo mật), 03/11/2026 22:57–23:08
+
+## Đã làm
+- Desk staging `sha-da6d6f3dc22b` (1440×900) và PWA staging (390×844), Chromium Playwright, tài khoản `qa.*`, chỉ địa chỉ `qa.*@example.test`.
+- Kiểm menu và trang "Bảo mật tài khoản" VI/EN, khối email, banner nhắc; đặt/đổi/xóa qua S2; OWN ở Người dùng & vai (UI + 2 ca API âm); HK tự đặt email (BUG-R4-018); thông báo PWA (BUG-R4-021).
+- Chụp và kiểm che 6 ảnh sổ tay: C0-06, G1-01, C1-07, C0-12, C0-13, C1-22.
+
+## Kết luận
+**ĐẠT.** Mới BUG-R4-023, BUG-R4-024 (P3). Lỗi `info@` không kiểm được trên staging (không có `EMAIL_FROM`), chuyển sang smoke production. Banner gộp không dựng được vì `MFA_ENFORCED=true`.
+
+## File tạo/sửa
+- `rounds/round-04/qa/v1.0.3-staging-smoke.md`
+- `rounds/round-04/qa/bug-list.md`
+- `product/docs/manual/img/C0-06.png`, `G1-01.png`, `C1-07.png` (chụp lại), `C0-12.png`, `C0-13.png`, `C1-22.png` (mới)
+- tệp này
+
+## Giả định
+- Staging không đặt `EMAIL_FROM` (suy từ hành vi: `info@example.test` và `info@ottimo.vn` đi tới S2 và ra 401). Khớp ARC v1.0.3-tech-plan dòng 113.
+- Email giả dạng `qa.*@example.test` thay cho `name@example.com` của hướng dẫn chụp (ORC yêu cầu).
+
+## Rủi ro
+- Câu `EMAIL_SHARED_MAILBOX` chưa chạy trên máy chủ thật. Mã đã đạt trên stack thử.
+
+## Việc chưa xong
+- Smoke production: thử `info@ottimo.vn` với mật khẩu S2 sai.
+- Chụp lại C1-07, C1-22 sau khi sửa BUG-R4-023.
+- D3 phần Desk v1.0.2 sau khi lùi: chờ QC quyết.
